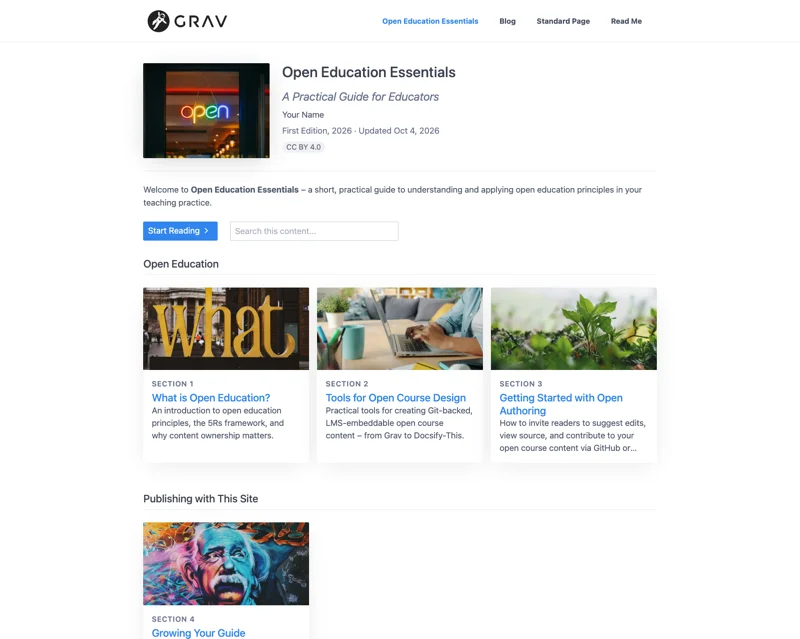
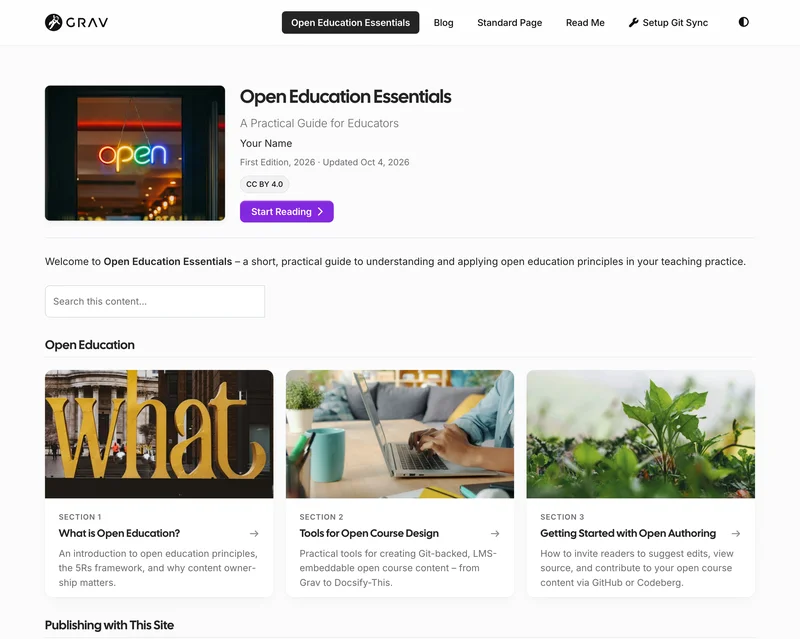
Page updates.Describe Open Publishing Space as an open guide or book site, link the Grav 2 demo, add a Pressbooks example, update the Learn2 star count, and show a Quark 2 thumbnail.

diff --git a/cost-free-grav-projects.html b/cost-free-grav-projects.html
@@ -28,13 +28,13 @@
      Shares a domain with the other pages (hibbittsdesign.org).
      ==================================================================== -->
 <title>Cost-Free Grav Projects | HibbittsDesign.org</title>
-<meta name="description" content="Four fully open-source Grav skeletons for course hubs, multi-course sites, guides with a blog, and documentation – no database required, with a browser-based Admin panel.">
+<meta name="description" content="Four fully open-source Grav skeletons for course hubs, multi-course sites, open guides and books, and documentation – no database required, with a browser-based Admin panel.">
 <link rel="canonical" href="https://hibbittsdesign.org/cost-free-grav-projects.html">
 
 <meta property="og:type" content="website">
 <meta property="og:url" content="https://hibbittsdesign.org/cost-free-grav-projects.html">
 <meta property="og:title" content="Cost-Free Grav Projects | HibbittsDesign.org">
-<meta property="og:description" content="Four fully open-source Grav skeletons for course hubs, multi-course sites, guides with a blog, and documentation – no database required, with a browser-based Admin panel.">
+<meta property="og:description" content="Four fully open-source Grav skeletons for course hubs, multi-course sites, open guides and books, and documentation – no database required, with a browser-based Admin panel.">
 <meta property="og:image" content="https://hibbittsdesign.org/assets/icons/og-cost-free-grav-projects.png">
 <meta property="og:image:width" content="1200">
 <meta property="og:image:height" content="630">
@@ -42,7 +42,7 @@
 <meta name="twitter:card" content="summary_large_image">
 <meta name="twitter:site" content="@hibbittsdesign">
 <meta name="twitter:title" content="Cost-Free Grav Projects | HibbittsDesign.org">
-<meta name="twitter:description" content="Four fully open-source Grav skeletons for course hubs, multi-course sites, guides with a blog, and documentation – no database required, with a browser-based Admin panel.">
+<meta name="twitter:description" content="Four fully open-source Grav skeletons for course hubs, multi-course sites, open guides and books, and documentation – no database required, with a browser-based Admin panel.">
 <meta name="twitter:image" content="https://hibbittsdesign.org/assets/icons/og-cost-free-grav-projects.png">
 
 <!-- Structured data for search engines — one entry per free skeleton -->
@@ -86,9 +86,9 @@
       "@type": "SoftwareApplication",
       "position": 3,
       "name": "Grav Open Publishing Space",
-      "url": "https://demo.hibbittsdesign.org/grav-open-publishing-quark/",
+      "url": "https://demo.hibbittsdesign.org/grav-open-publishing-quark2/",
       "codeRepository": "https://github.com/hibbitts-design/grav-skeleton-open-publishing-space",
-      "description": "Guides and a blog in one site on the free Quark theme: an open education guide homepage with section cards, parts, reading progress, and Keep My Place, alongside a full blog.",
+      "description": "An open guide or book site on the Quark 2 theme (Quark in the Grav 1.7 version), with a blog and almost any other Grav page alongside it: section cards, parts, reading progress, and Keep My Place.",
       "applicationCategory": "WebApplication",
       "operatingSystem": "Web",
       "offers": {
@@ -198,7 +198,7 @@
     </div>
     <h1>Cost-Free Grav Projects</h1>
     <p class="tier-track"><span class="tier-step green current"><span class="tier-dot"></span>Full CMS</span></p>
-    <p class="lede">The Cost-Free Grav Projects are four fully open-source skeletons, built on the newly released Grav 2 (with Grav 1.7 versions also available), for course hubs, multi-course sites, guides with a blog, and documentation &ndash; well suited to OER and other open educational resources. <a href="https://getgrav.org" class="tlink" target="_blank" rel="noopener">Grav</a> (15.7k &#9733;s) is a flat-file CMS that stores content as plain Markdown files instead of a database, edited through a browser-based Admin panel, and runs on any standard web host with PHP 8.3+ (or PHP 8.0.2+ for the Grav 1.7 versions).</p>
+    <p class="lede">The Cost-Free Grav Projects are four fully open-source skeletons, built on the newly released Grav 2 (with Grav 1.7 versions also available), for course hubs, multi-course sites, open guides and books, and documentation &ndash; well suited to OER and other open educational resources. <a href="https://getgrav.org" class="tlink" target="_blank" rel="noopener">Grav</a> (15.7k &#9733;s) is a flat-file CMS that stores content as plain Markdown files instead of a database, edited through a browser-based Admin panel, and runs on any standard web host with PHP 8.3+ (or PHP 8.0.2+ for the Grav 1.7 versions).</p>
     <p class="lede">Each shares the same portable Markdown files and optional Git Sync &ndash; Course Hub, MultiCourse Hub, and Publishing Space also support LMS-ready embedding for platforms like Canvas and Moodle. All four were refreshed in 2026 with a Dark Mode option, and the course hubs with accessibility improvements too.</p>
     <p class="jump-links">Jump to: <a href="#choose-your-skeleton" class="tlink">Choose Your Skeleton</a> &middot; <a href="#git-page-link-plugin" class="tlink">Git Page Link Plugin</a></p>
     <hr class="hero-rule">
@@ -206,7 +206,7 @@
 
   <section class="grav-projects">
     <h2 id="choose-your-skeleton" style="font-size:1.3rem; margin:0 0 14px;">Choose Your Skeleton</h2>
-    <p>One course, week by week &rarr; <a href="#grav-open-course-hub" class="tlink">Open Course Hub</a> &middot; several courses &rarr; <a href="#grav-open-multicourse-hub" class="tlink">Open MultiCourse Hub</a> &middot; a guide or open textbook-style resource with a blog &rarr; <a href="#grav-open-publishing-space" class="tlink">Open Publishing Space</a> &middot; documentation &rarr; <a href="#grav-learn2-git-sync" class="tlink">Learn2 with Git Sync</a></p>
+    <p>One course, week by week &rarr; <a href="#grav-open-course-hub" class="tlink">Open Course Hub</a> &middot; several courses &rarr; <a href="#grav-open-multicourse-hub" class="tlink">Open MultiCourse Hub</a> &middot; an open guide or book, with a blog or other pages alongside it &rarr; <a href="#grav-open-publishing-space" class="tlink">Open Publishing Space</a> &middot; documentation &rarr; <a href="#grav-learn2-git-sync" class="tlink">Learn2 with Git Sync</a></p>
     <div class="grav-grid">
       <div class="grav-card" id="grav-open-course-hub">
         <div class="grav-thumb"><a href="https://demo.hibbittsdesign.org/grav-open-course-hub" target="_blank" rel="noopener"><img src="assets/screenshots/grav-open-course-hub-thumb.webp" width="800" height="639" alt="Screenshot of the Grav Open Course Hub home page, showing a hero photo, course navigation, and upcoming due dates"></a></div>
@@ -231,12 +231,13 @@
         </div>
       </div>
       <div class="grav-card" id="grav-open-publishing-space">
-        <div class="grav-thumb"><a href="https://demo.hibbittsdesign.org/grav-open-publishing-quark/" target="_blank" rel="noopener"><img src="assets/screenshots/grav-open-publishing-thumb.webp" width="800" height="639" alt="Screenshot of the Grav Open Publishing Space home page on the Quark theme, showing an open guide with a cover image, guide details, and section cards"></a></div>
+        <div class="grav-thumb"><a href="https://demo.hibbittsdesign.org/grav-open-publishing-quark2/" target="_blank" rel="noopener"><img src="assets/screenshots/grav-open-publishing-thumb.webp" width="800" height="639" alt="Screenshot of the Grav Open Publishing Space home page on the Quark 2 theme, showing an open guide with a cover image beside its title and details, a Start Reading button, and section cards"></a></div>
         <h3>Grav Open Publishing Space</h3>
         <div class="badge-row"><span class="badge plain sm"><span aria-hidden="true">&#9733;</span> 27</span></div>
-        <p>Guides and a blog in one site &ndash; an open education guide homepage with section cards, parts, reading progress, and Keep My Place, alongside a full blog. Guides use the same page settings as Grav Helios Open Reader, so they can move there later.</p>
+        <p>An open guide or book site, with a blog and almost any other Grav page alongside it &ndash; section cards, parts, reading progress, and Keep My Place. Guides use the same page types and settings as Grav Helios Open Reader, so they can move between the two, and a Pressbooks book can be imported with the Grav Helios Converters.</p>
         <div class="links">
-          <a class="cta" href="https://demo.hibbittsdesign.org/grav-open-publishing-quark/" target="_blank" rel="noopener"><span class="arrow">&rarr;</span> Demo</a>
+          <a class="cta" href="https://demo.hibbittsdesign.org/grav-open-publishing-quark2/" target="_blank" rel="noopener"><span class="arrow">&rarr;</span> Demo</a>
+          <a class="cta plain" href="https://demo.hibbittsdesign.org/grav-open-publishing-quark2-udl/" target="_blank" rel="noopener">Pressbooks Example</a>
           <a class="cta plain" href="https://getgrav.org/downloads/skeletons#open-publishing-space-site" target="_blank" rel="noopener">Download</a>
           <a class="cta plain" href="https://github.com/hibbitts-design/grav-skeleton-open-publishing-space" target="_blank" rel="noopener">GitHub</a>
         </div>
@@ -244,7 +245,7 @@
       <div class="grav-card" id="grav-learn2-git-sync">
         <div class="grav-thumb"><a href="https://demo.hibbittsdesign.org/grav-learn2-git-sync/" target="_blank" rel="noopener"><img src="assets/screenshots/grav-learn2-thumb.webp" width="800" height="639" alt="Screenshot of a Grav Learn2 with Git Sync documentation page, showing a dark sidebar with chapter navigation next to article content"></a></div>
         <h3>Grav Learn2 with Git Sync</h3>
-        <div class="badge-row"><span class="badge plain sm"><span aria-hidden="true">&#9733;</span> 37</span></div>
+        <div class="badge-row"><span class="badge plain sm"><span aria-hidden="true">&#9733;</span> 38</span></div>
         <p>A documentation site on the free Learn2 theme, with built-in search, RSS/Atom feeds, an updated visual style, and support for a Docs-as-Code approach.</p>
         <div class="links">
           <a class="cta" href="https://demo.hibbittsdesign.org/grav-learn2-git-sync/" target="_blank" rel="noopener"><span class="arrow">&rarr;</span> Demo</a>

diff --git a/index.html b/index.html
@@ -568,7 +568,7 @@ Turn any Markdown file into a
     <ul class="more-list">
       <li><a href="https://github.com/hibbitts-design/grav-skeleton-course-hub" target="_blank" rel="noopener">Open Course Hub</a><span>&ndash; a single-course hub with weekly module navigation</span></li>
       <li><a href="https://github.com/hibbitts-design/grav-skeleton-multicourse-hub" target="_blank" rel="noopener">Open MultiCourse Hub</a><span>&ndash; the same, plus a top-level course-selection layer for managing several courses</span></li>
-      <li><a href="https://github.com/hibbitts-design/grav-skeleton-open-publishing-space" target="_blank" rel="noopener">Open Publishing Space</a><span>&ndash; guides and a blog in one site, on the free Quark theme</span></li>
+      <li><a href="https://github.com/hibbitts-design/grav-skeleton-open-publishing-space" target="_blank" rel="noopener">Open Publishing Space</a><span>&ndash; an open guide or book site, with a blog and other pages alongside it, on the free Quark 2 theme</span></li>
       <li><a href="https://github.com/hibbitts-design/grav-skeleton-learn2-with-git-sync" target="_blank" rel="noopener">Learn2 with Git Sync</a><span>&ndash; documentation sites on the free Learn2 theme, with search and RSS/Atom feeds</span></li>
       <li class="more-sep"><a href="https://github.com/hibbitts-design/grav-plugin-git-page-link" target="_blank" rel="noopener">Git Page Link Plugin</a><span>&ndash; adds an "Edit this Page" / "View Source" link back to the Markdown source, on most Grav themes</span></li>
     </ul>
